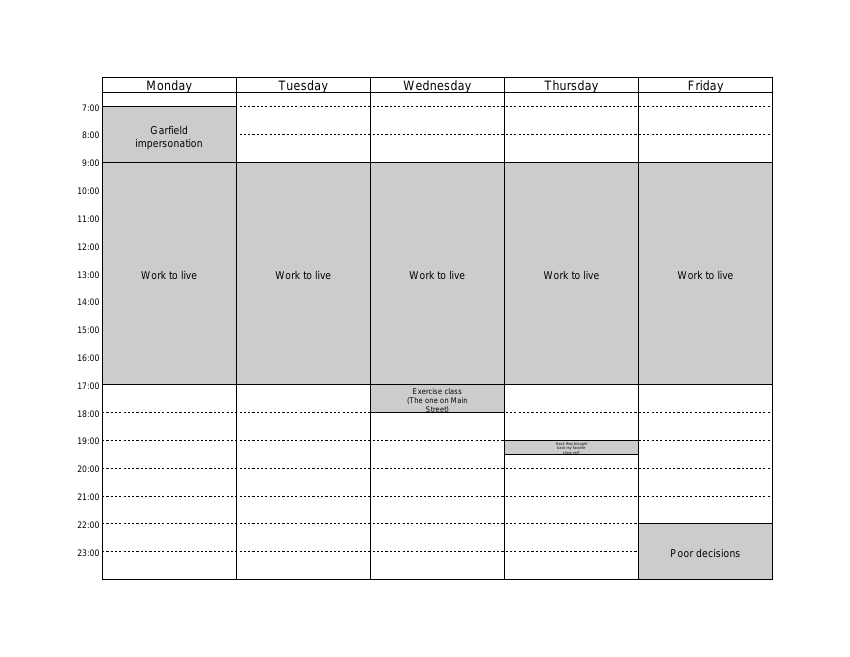
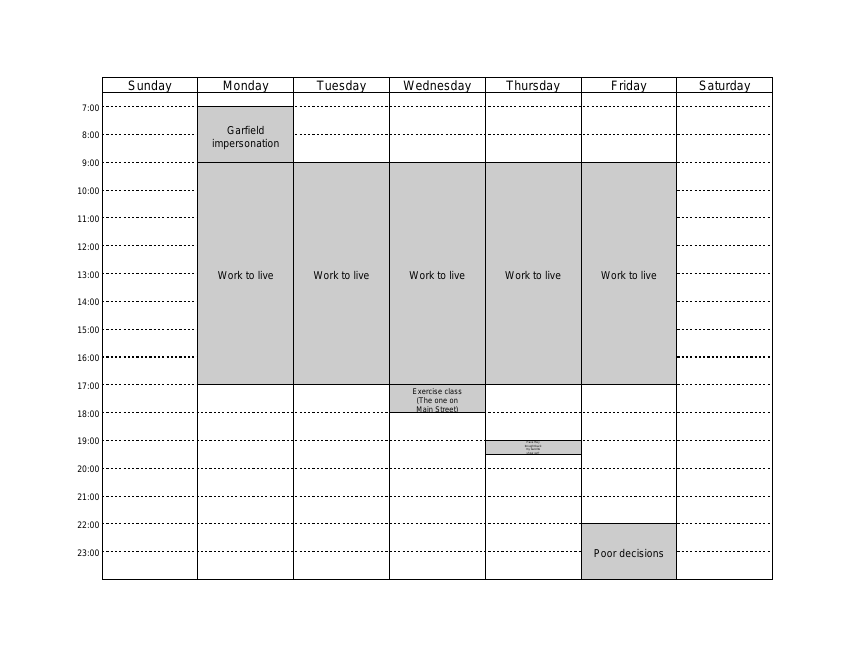
Support weekend events

diff --git a/pdfschedule.py b/pdfschedule.py
@@ -6,7 +6,7 @@ Run ``pdfschedule --help`` or visit <https://github.com/jwodder/schedule> for
 more information.
 """
 
-__version__      = '0.1.0'
+__version__      = '0.2.0.dev1'
 __author__       = 'John Thorvald Wodder II'
 __author_email__ = 'pdfschedule@varonathe.org'
 __license__      = 'MIT'
@@ -32,11 +32,13 @@ WEEKDAYS_EN  = ['Monday', 'Tuesday', 'Wednesday', 'Thursday', 'Friday']
 FULL_WEEK_EN = ['Sunday'] + WEEKDAYS_EN + ['Saturday']
 
 DAY_REGEXES = [
-    ('Monday', '[Mm]'),
-    ('Tuesday', '[Tt]'),
-    ('Wednesday', '[Ww]'),
-    ('Thursday', '[HhRr]'),
-    ('Friday', '[Ff]'),
+    ('Sunday', 'Sun?'),
+    ('Monday', 'M(on?)?'),
+    ('Tuesday', 'T(ue?)?'),
+    ('Wednesday', 'W(ed?)?'),
+    ('Thursday', 'Thu?|H|R'),
+    ('Friday', 'F(ri?)?'),
+    ('Saturday', 'Sat?'),
 ]
 
 GREY = (0.8, 0.8, 0.8)
@@ -270,7 +272,7 @@ def main(infile, outfile, color, font, font_size, portrait, scale, no_times):
     else:
         page_width, page_height = pagesizes.landscape(pagesizes.letter)
     colors = COLORS if color else [GREY]
-    sched = Schedule(WEEKDAYS_EN)
+    sched = Schedule(FULL_WEEK_EN)
     for ev in read_events(infile, colors=colors):
         sched.add_event(ev)
     c = Canvas(outfile, (page_width, page_height))

diff --git a/README.rst b/README.rst
@@ -18,8 +18,7 @@
 | `Issues <https://github.com/jwodder/schedule/issues>`_
 
 ``pdfschedule`` is a Python 3 script for creating PDF documents showing
-one's weekly schedule of events.  Currently, only events that take place on
-weekdays are recognized.
+one's weekly schedule of events.
 
 
 Installation
@@ -82,20 +81,21 @@ represents a single weekly event and must contain the following keys:
 
 ``days``
    The days of the week on which the event occurs, specified as a string of one
-   or more of the following single-letter codes:
+   or more of the following abbreviations in any order:
 
-   ======  =========
-   Letter  Day
-   ======  =========
-   M       Monday
-   T       Tuesday
-   W       Wednesday
-   H or R  Thursday
-   F       Friday
-   ======  =========
+   ===================================  =========
+   Abbreviation                         Day
+   ===================================  =========
+   ``Su`` or ``Sun``                    Sunday
+   ``M`` or ``Mo`` or ``Mon``           Monday
+   ``T`` or ``Tu`` or ``Tue``           Tuesday
+   ``W`` or ``We`` or ``Wed``           Wednesday
+   ``H`` or ``R`` or ``Th`` or ``Thu``  Thursday
+   ``F`` or ``Fr`` or ``Fri``           Friday
+   ``Sa`` or ``Sat``                    Saturday
+   ===================================  =========
 
-   These letters may be in any order & case.  Characters outside this set are
-   ignored.
+   Case is significant.  Unknown abbreviations are ignored.
 
 ``time``
    The start & end times of the event in the format ``HH:MM - HH:MM``.  Times
@@ -132,4 +132,4 @@ The following input file::
 
 produces (using the default options) an output file that looks like this:
 
-.. image:: https://github.com/jwodder/schedule/raw/v0.1.0/examples/example01.png
+.. image:: https://github.com/jwodder/schedule/raw/master/examples/example01.png

diff --git a/TODO.md b/TODO.md
@@ -1,6 +1,5 @@
-- Add support for weekend events
-    - Add an option for hiding weekends
-    - Add an option for making the week start on Monday instead of Sunday
+- Add an option for hiding weekends
+- Add an option for making the week start on Monday instead of Sunday
 - Support events that end at 00:00
 - Handle events that go past midnight
 

diff --git a/CHANGELOG.md b/CHANGELOG.md
@@ -1,0 +1,8 @@
+v0.2.0 (in development)
+-----------------------
+- Support for weekend events added
+- Day-of-week abbreviations in input files may no longer be lowercase
+
+v0.1.0 (2019-04-11)
+-------------------
+Initial release
